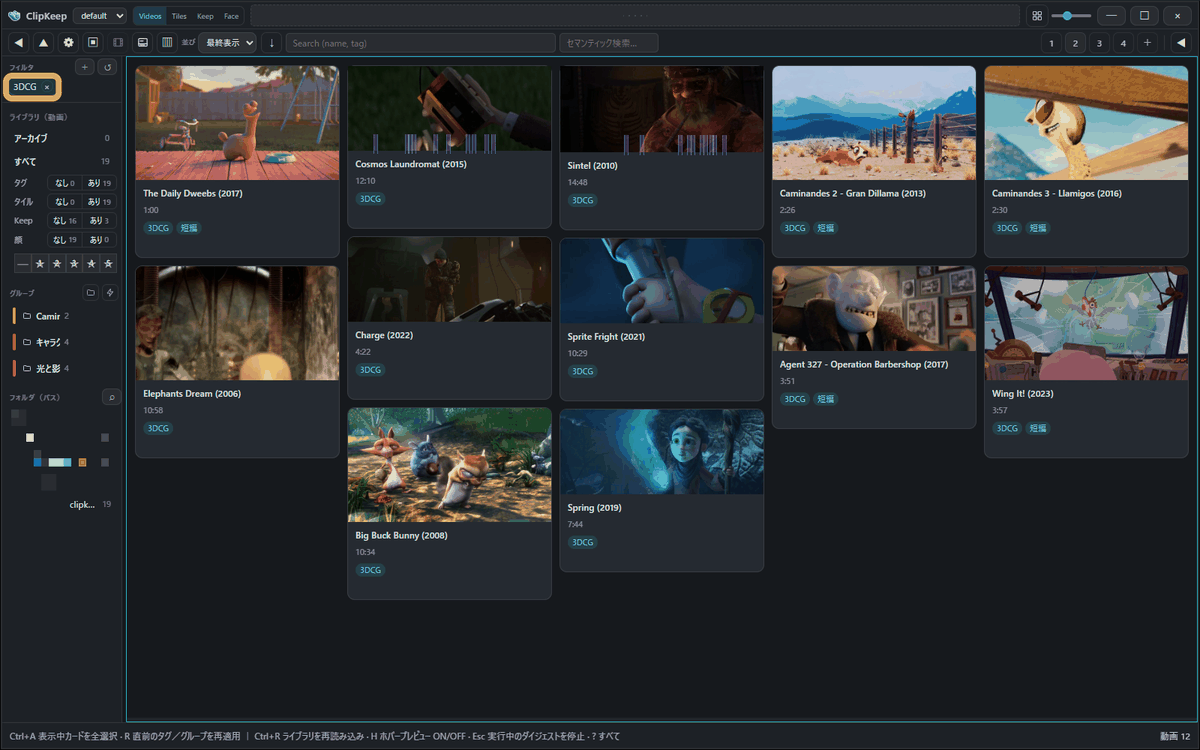
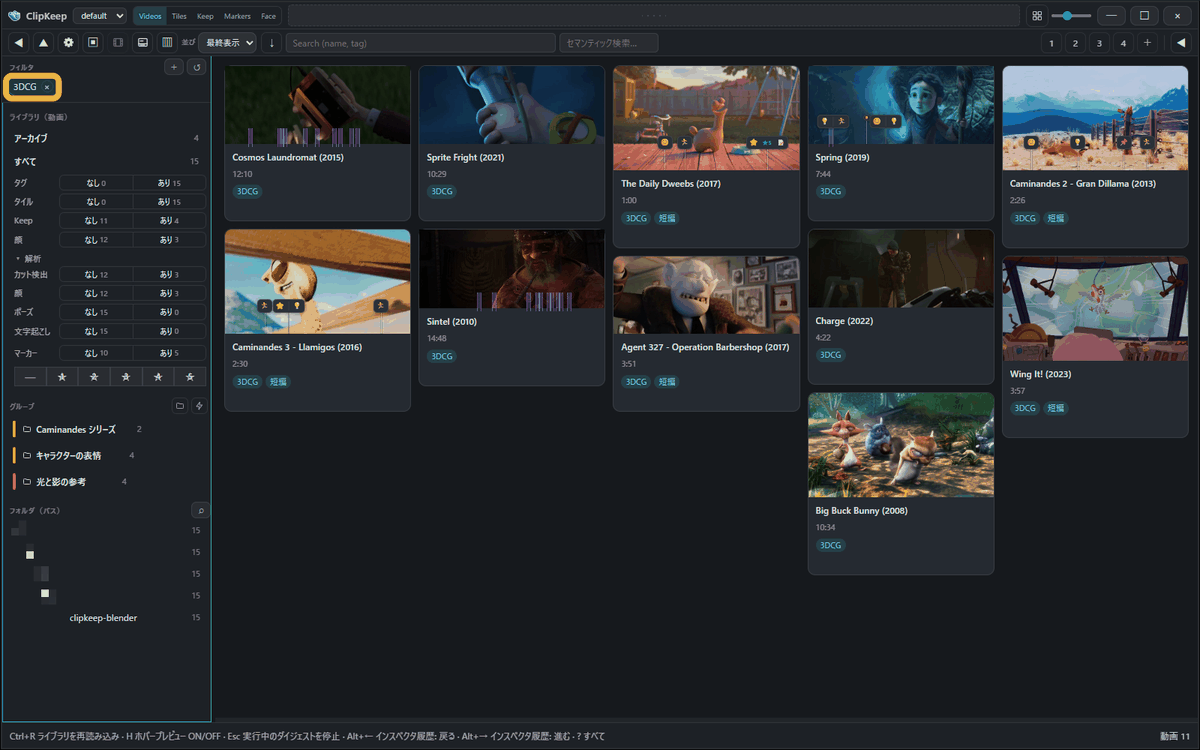
docs: v0.5.0-beta に合わせて README・USER_GUIDE・紹介ページと図を更新する
マーカー（§5.6）と Keep マーク（§5.2）の説明と図を足し、無料プランの上限にマーカー 300 件を加えた。0.5.0 で撮り直した図 21 枚と新しい図 3 枚を入れた。旧素材（Pexels）の頃の文を直し、画面内の動画素材の帰属表示（Blender Foundation の CC BY 4.0・Nina Paley の CC0）を紹介ページのフッタと USER_GUIDE 末尾に入れた。正本は record-for-ai（out/clipkeep）

diff --git a/landing/index.html b/landing/index.html
@@ -338,6 +338,13 @@ footer {
 .footer-inner { display: flex; justify-content: space-between; align-items: center; flex-wrap: wrap; gap: 16px; }
 .footer-links { display: flex; gap: 24px; }
 .footer-links a:hover { color: var(--text); }
+/* 画面内の動画素材の帰属（record-for-ai 票26 D2） */
+.credits { margin-bottom: 24px; padding-bottom: 24px; border-bottom: 1px solid var(--line); line-height: 1.8; }
+.credits h2 { font-size: .9rem; color: var(--text); margin: 0 0 8px; }
+.credits p { margin: 0 0 6px; }
+.credits a { text-decoration: underline; }
+.credits a:hover { color: var(--text); }
+.credits .t { white-space: nowrap; }  /* 作品名の途中で折り返さない */
 
 /* reveal on scroll */
 .reveal { opacity: 0; transform: translateY(18px); transition: opacity .6s ease, transform .6s ease; }
@@ -384,7 +391,7 @@ footer {
     <figure class="hero-shot reveal">
       <img src="assets/hero.gif" width="1100" height="688" loading="eager" decoding="async"
            alt="ClipKeep のライブラリ画面。動画がタイルで並び、スクロールして一覧を眺めている">
-      <figcaption>実際の画面です。取り込んだ動画が、中身の見えるタイルで並びます。<br><span class="shot-note">画面の動画は Pexels の素材です。</span></figcaption>
+      <figcaption>実際の画面です。取り込んだ動画が、中身の見えるタイルで並びます。<br><span class="shot-note">画面の動画は Blender などのオープンムービーです（<a href="#credits">素材について</a>）。</span></figcaption>
     </figure>
   </div>
 </section>
@@ -482,7 +489,7 @@ footer {
       <div class="feat reveal">
         <span class="feat-icon"><svg viewBox="0 0 24 24" fill="none" stroke-width="2" stroke-linecap="round" stroke-linejoin="round"><path d="M20.59 13.41l-7.17 7.17a2 2 0 0 1-2.83 0L2 12V2h10l8.59 8.59a2 2 0 0 1 0 2.82z"/><line x1="7" y1="7" x2="7.01" y2="7"/></svg></span>
         <h3>タグ・レーティング・検索</h3>
-        <p>動画にもタイルにも Keep にもタグと評価を付けて横断検索。ライブラリが育つほど、見つかるスピードが上がります。</p>
+        <p>動画にも Keep にもマーカーにもタグと評価を付けて横断検索。ライブラリが育つほど、見つかるスピードが上がります。</p>
       </div>
     </div>
     <div class="shots-2">
@@ -493,8 +500,8 @@ footer {
       </figure>
       <figure class="shot reveal">
         <img src="assets/tag-search.png" width="1200" height="750" loading="lazy" decoding="async"
-             alt="「夜景」タグで絞り込み、夜景の動画だけが並んだ画面">
-        <figcaption><b>タグで絞り込む</b>「夜景」タグを1つ選ぶだけで、夜景の動画だけが並びます。</figcaption>
+             alt="「3DCG」タグで絞り込み、3DCG の動画だけが並んだ画面">
+        <figcaption><b>タグで絞り込む</b>「3DCG」タグを1つ選ぶだけで、3DCG の動画だけが並びます。</figcaption>
       </figure>
     </div>
   </div>
@@ -534,7 +541,7 @@ footer {
       <p>
         ClipKeep はクラウドアップロード不要の完全ローカルアプリ。
         動画ファイルは元のフォルダに置いたまま、アカウント登録すら要りません。
-        どんなコレクションでも、誰にも見られず、通信量ゼロで。
+        どんなコレクションでも、動画をどこにも送らず、誰にも見られずに。
       </p>
       <div class="local-points">
         <span class="local-point"><svg viewBox="0 0 24 24" fill="none" stroke-width="2" stroke-linecap="round" stroke-linejoin="round"><rect x="3" y="11" width="18" height="11" rx="2"/><path d="M7 11V7a5 5 0 0 1 10 0v4"/></svg>アップロードなし</span>
@@ -550,7 +557,7 @@ footer {
   <div class="container">
     <p class="section-label">Pricing</p>
     <h2>まずは無料で。必要になったらアップグレード。</h2>
-    <p class="section-sub">無料プランに期限はありません。制限を超えてもデータは消えず、有料プランにするとそのまま全件へ戻れます。</p>
+    <p class="section-sub">無料プランに期限はありません。上限に達しても作ってあるものは消えず、有料プランにすると上限なく作れます。</p>
     <div class="price-grid">
       <div class="price-card reveal">
         <p class="price-name">無料</p>
@@ -559,6 +566,7 @@ footer {
         <ul class="price-list">
           <li>動画は何本でも登録できます</li>
           <li>Keep タイル 100 枚まで</li>
+          <li>マーカー 300 件まで</li>
           <li>プロファイル 1 つ</li>
           <li>タイルカタログは無制限</li>
           <li>ホバープレビュー・クリップエディタ</li>
@@ -571,7 +579,7 @@ footer {
         <p class="price-desc">年額 ¥3,750 も選べます。7 日間の無料トライアル付き。</p>
         <ul class="price-list">
           <li>ClipKeep を含むスイートアプリを契約中ずっと利用</li>
-          <li>Keep タイルを無制限に</li>
+          <li>Keep タイルとマーカーを無制限に</li>
           <li>プロファイルをいくつでも</li>
           <li>Keep した範囲を動画ファイルへ書き出し</li>
           <li>スキャン実験室：顔・ポーズ・シーン検出・文字起こし</li>
@@ -616,7 +624,7 @@ footer {
       </details>
       <details class="reveal">
         <summary>無料プランの制限を超えたらデータは消えますか？</summary>
-        <p>消えません。無料枠を超えた分は表示が制限されるだけで、データベースにはすべて残ります。有料プランのライセンスを認証すれば、その瞬間に全データへ再アクセスできます。なお動画の登録数に上限はありません。</p>
+        <p>消えません。上限に達すると新しく作ることだけが止まり、作ってあるものはそのまま見たり直したりできます。有料プランのライセンスを認証すれば、その場で上限なく作れるようになります。なお動画の登録数に上限はありません。</p>
       </details>
       <details class="reveal">
         <summary>ベータ版の不具合はどこに報告すればいい？</summary>
@@ -643,6 +651,12 @@ footer {
 </section>
 
 <footer>
+  <div class="container credits" id="credits">
+    <h2>画面内の動画素材について</h2>
+    <p>このページのスクリーンショットに写っている動画は、Blender Foundation が <a href="https://creativecommons.org/licenses/by/4.0/deed.ja">クリエイティブ・コモンズ 表示 4.0 国際（CC BY 4.0）</a>で公開しているオープンムービーと、Nina Paley が CC0 で公開している作品です。動画のコマを静止画として切り出し、アプリの画面の中に縮小して表示しています。</p>
+    <p>Blender Foundation（(CC) Blender Foundation | <a href="https://studio.blender.org/">studio.blender.org</a>）: <span class="t">Agent 327: Operation Barbershop</span>／<span class="t">Big Buck Bunny</span>／<span class="t">Caminandes 2: Gran Dillama</span>／<span class="t">Caminandes 3: Llamigos</span>／<span class="t">Charge</span>／<span class="t">Coffee Run</span>／<span class="t">Cosmos Laundromat: First Cycle</span>／<span class="t">Elephants Dream</span>／<span class="t">Glass Half</span>／<span class="t">HERO</span>／<span class="t">Making Of Sintel</span>／<span class="t">Sintel</span>／<span class="t">Spring</span>／<span class="t">Sprite Fright</span>／<span class="t">Tears of Steel</span>／<span class="t">The Daily Dweebs</span>／<span class="t">Wing It!</span></p>
+    <p>Nina Paley（CC0）: <a href="https://www.sitasingstheblues.com/">Sita Sings the Blues</a>／<a href="https://sedermasochism.com/">Seder-Masochism</a></p>
+  </div>
   <div class="container footer-inner">
     <span>© 2026 ClipKeep — Beta ／ <a href="https://shinosuke-site.vercel.app/">Shinosuke ツールスイート</a>のひとつです</span>
     <nav class="footer-links">

diff --git a/README.md b/README.md
@@ -25,9 +25,9 @@
 
 ## プランとライセンス
 
-**無料で、動画を何本でも登録できます。** 期限はありません。Keep タイルは 100 枚まで、プロファイルは 1 つまでです。上限を超えてもデータは消えず、有料プランにすればそのまま全件に戻れます。
+**無料で、動画を何本でも登録できます。** 期限はありません。Keep タイルは 100 枚まで、マーカーは 300 件まで、プロファイルは 1 つまでです。上限に達しても作ってあるものは消えず、有料プランにすれば上限なく作れます。
 
-有料プランで開くのは、Keep タイルの無制限・複数のプロファイル・書き出し・スキャン実験室（顔・ポーズ・シーン検出・文字起こし）です。
+有料プランで開くのは、Keep タイルとマーカーの無制限・複数のプロファイル・書き出し・スキャン実験室（顔・ポーズ・シーン検出・文字起こし）です。
 
 **いま購入できるのは All-Access（サブスク）だけです。買い切りも将来的に用意する予定ですが、こちらは完成品を永続的に所有する形なので、テスト段階で公開しているいまは出していません。**
 
